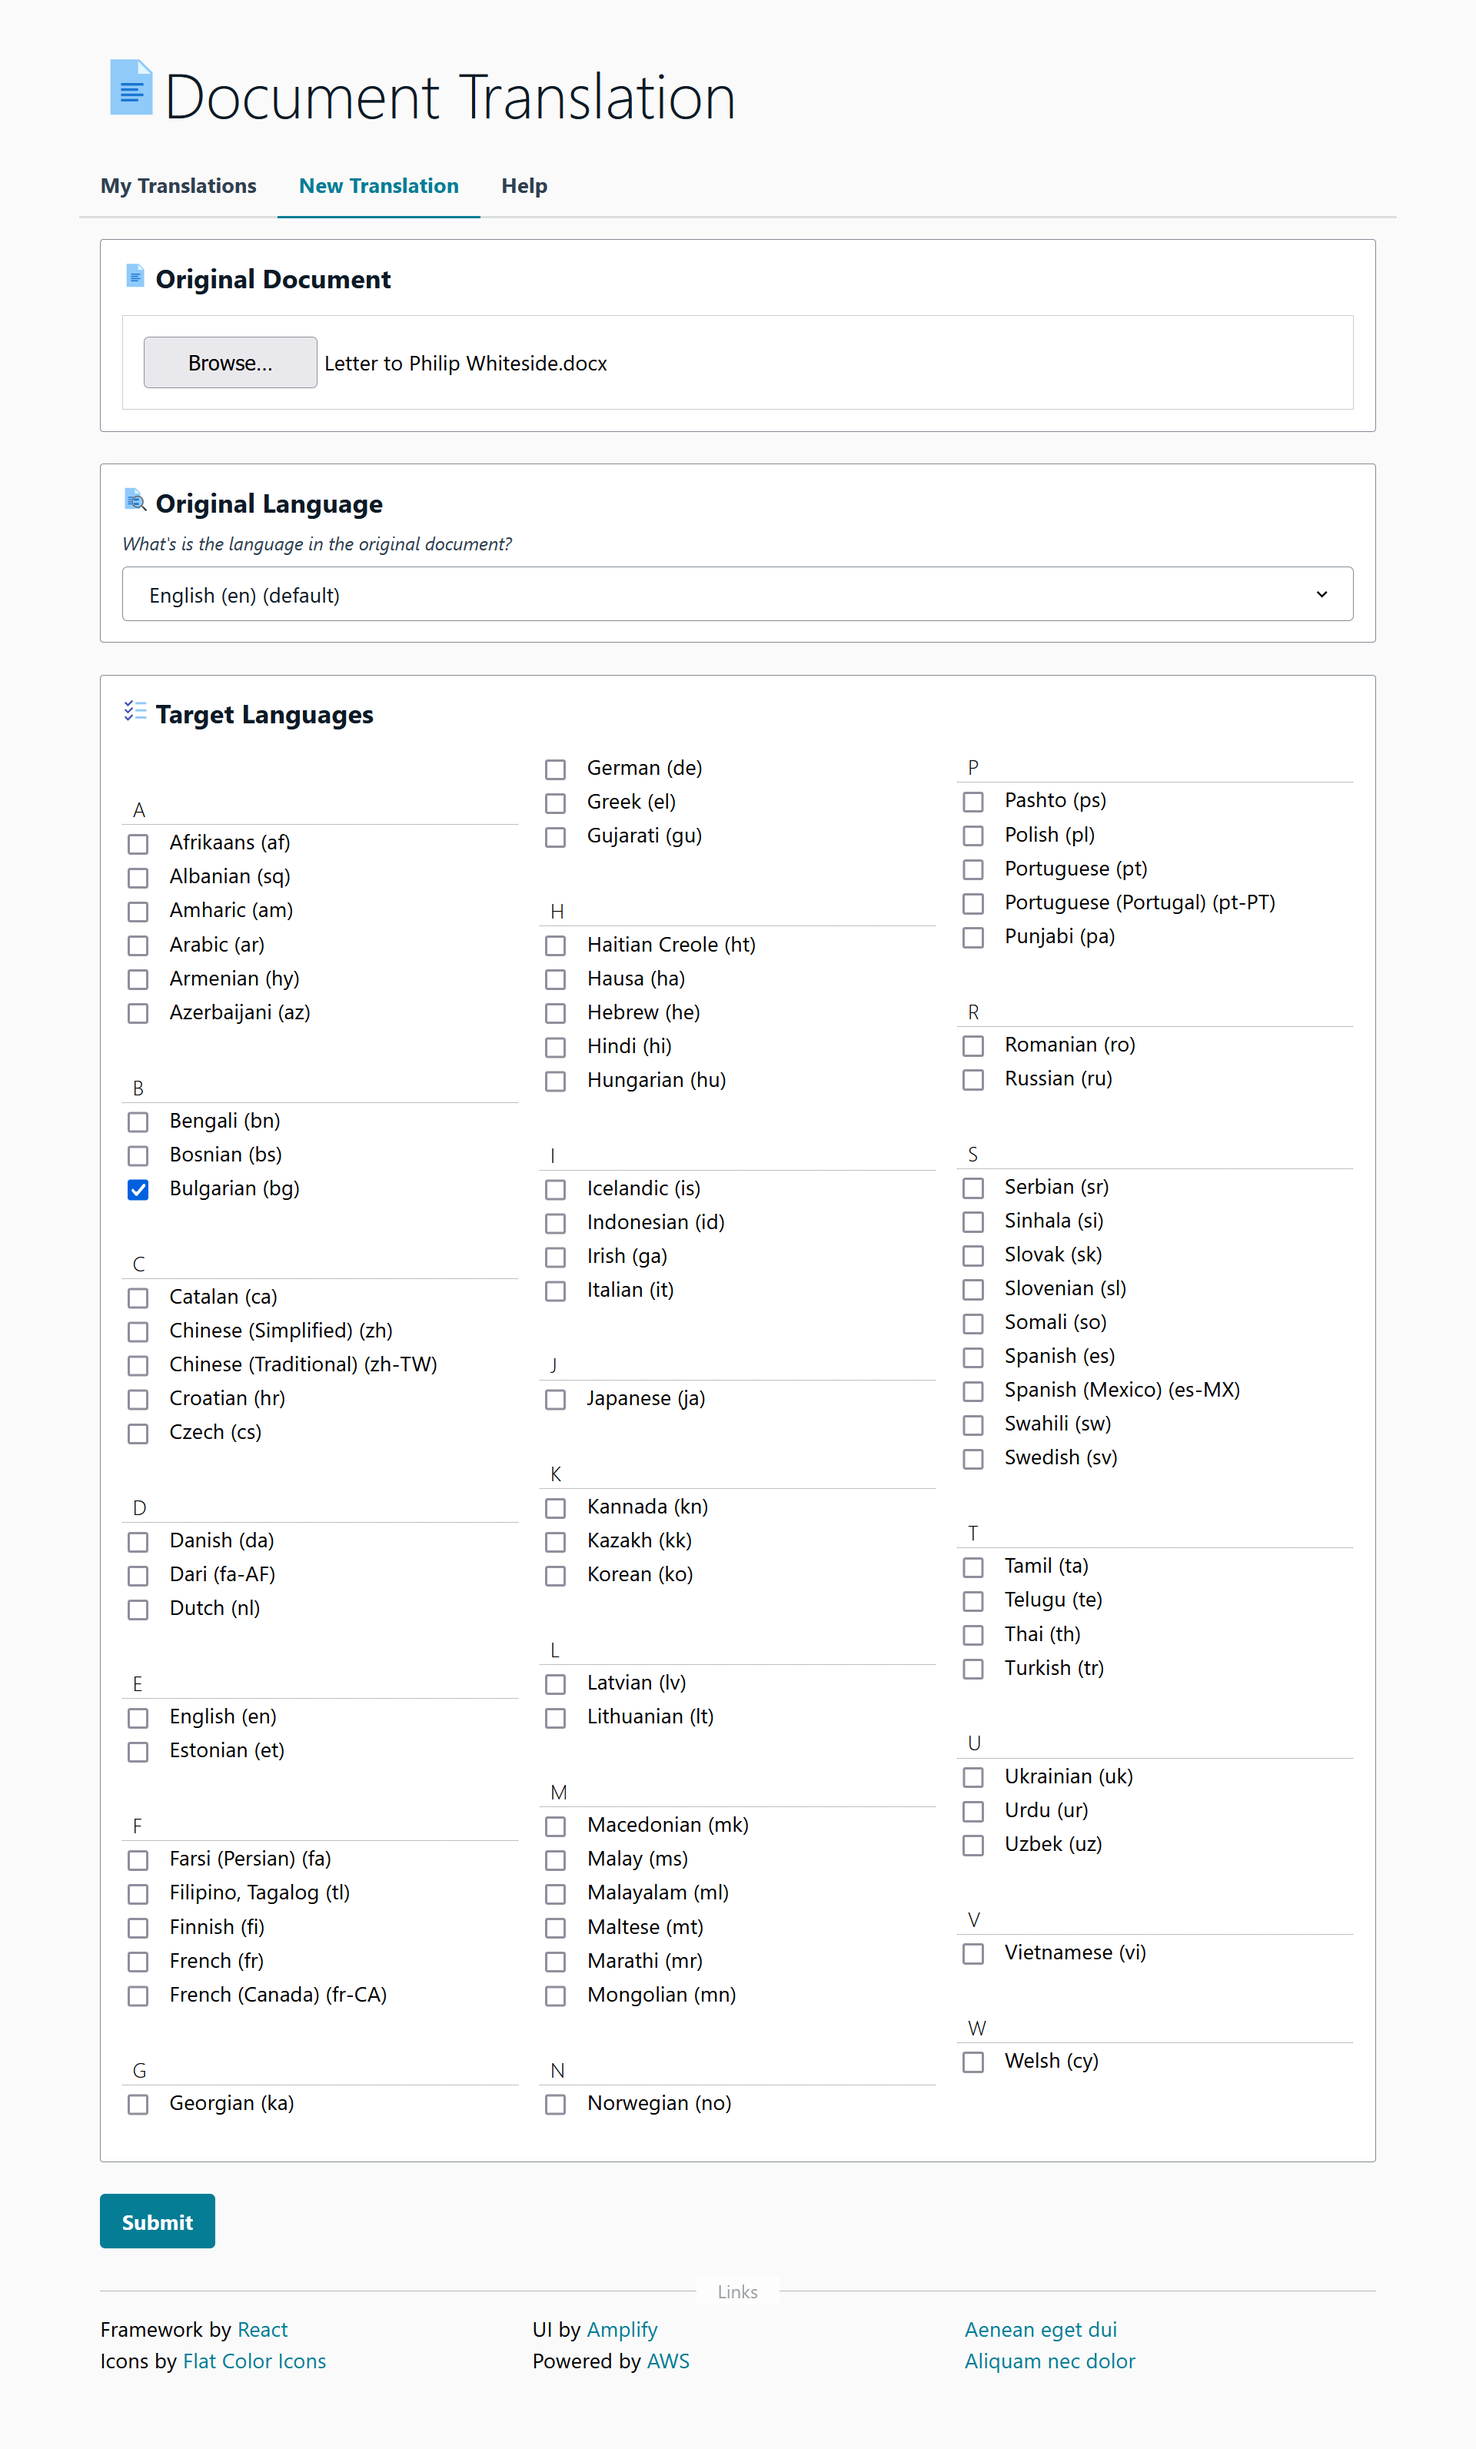
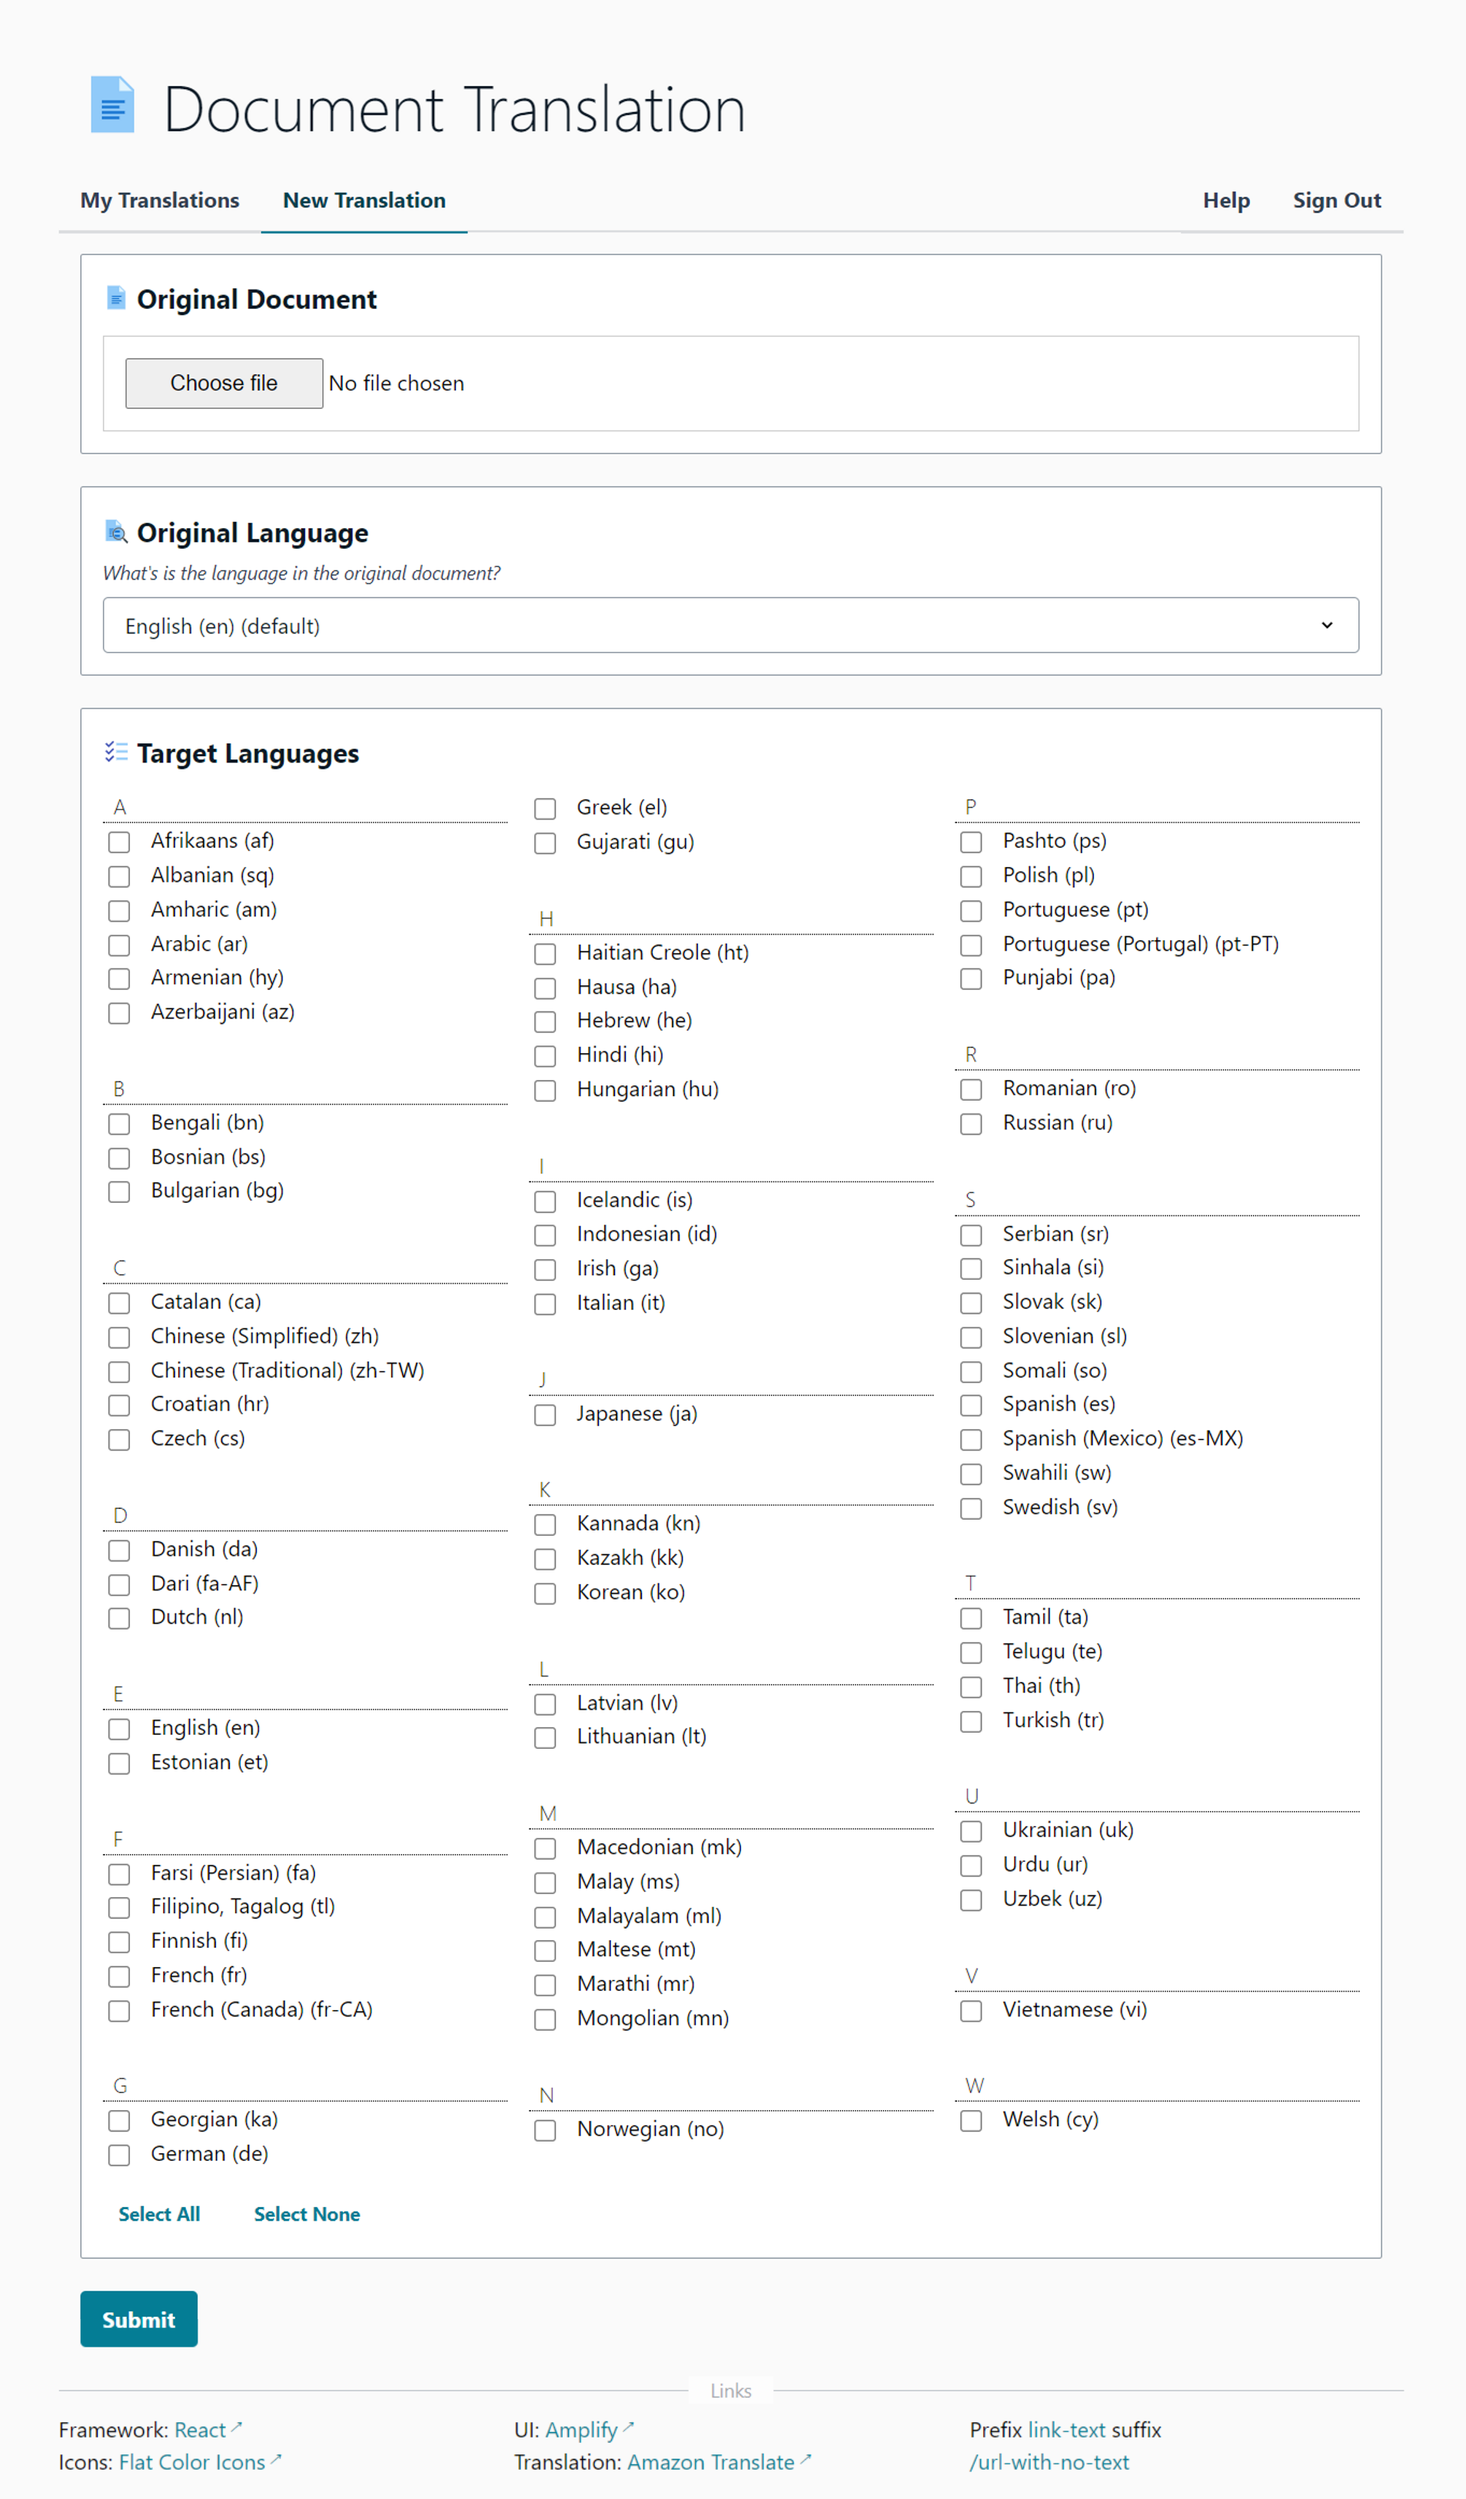
Update example screenshots

diff --git a/docs/index.md b/docs/index.md
@@ -28,6 +28,10 @@ User authentication is required and handled by [AWS Cognito](https://aws.amazon.
 
 ![Web UI - My Translations Table]({{ site.baseurl }}/assets/img/client_history.png)
 
+**Multiple Language UI**
+
+![Web UI - Multiple Languages]({{ site.baseurl }}/assets/img/client_multi_lang.png)
+
 **New Translations Form**
 
 ![Web UI - New Translation Form]({{ site.baseurl }}/assets/img/client_create.png)

diff --git a/README.md b/README.md
@@ -23,6 +23,10 @@ User authentication is required and handled by [AWS Cognito](https://aws.amazon.
 
 ![Web UI - My Translations Table](docs/assets/img/client_history.png)
 
+**Multiple Language UI**
+
+![Web UI - Multiple Languages](docs//assets/img/client_multi_lang.png)
+
 **New Translations Form**
 
 ![Web UI - New Translation Form](docs/assets/img/client_create.png)
